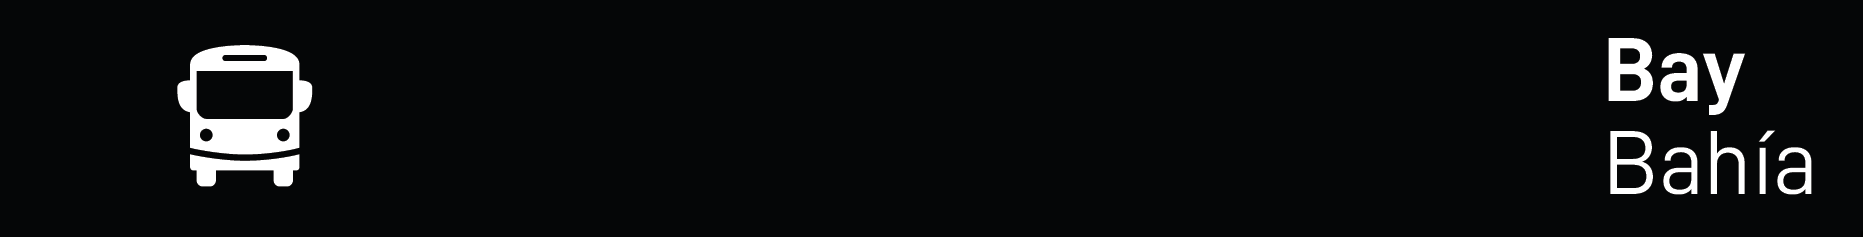
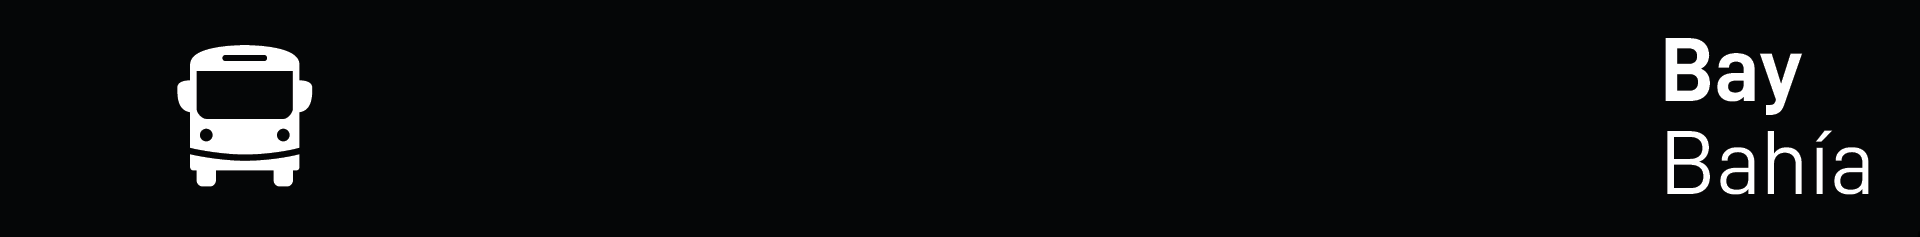
fine tune styling and update images

Changed region(s): [[0.0934, 0.1772, 0.1868, 0.7975], [0.8406, 0.5612, 0.9962, 0.827], [0.8406, 0.1772, 0.934, 0.4726]]

diff --git a/src/css/bus-bay-assignments.css b/src/css/bus-bay-assignments.css
@@ -5,7 +5,7 @@
     align-items: stretch;
     height: 100vh;
     width: 1920px;
-    background-color: black;
+    background-color: #2B2B2B;
     overflow: hidden;
     color: #fff;
 }
@@ -17,7 +17,7 @@
     align-items: middle;
     width: 100%;
     height: 90px;
-    background-color: #000;
+    background-color: #2B2B2B;
     color: white;
     font-size: 1.5em;
     margin: 0;
@@ -30,7 +30,9 @@
     align-items: center;
     padding-right: 40px;
     height: 90px;
-    font-size: 52px;
+    font-size: 60px;
+    font-weight: normal;
+    transform: translateY(-3px);
 }
 
 #bba-static-content {
@@ -67,7 +69,7 @@
 
 .service-agency-info {
     width: 484px;
-    background-color: #444;
+    /* background-color: #444; */
     display: flex;
     flex-direction: row;
     justify-content: center;
@@ -75,12 +77,13 @@
 }
 
 .route-number {
-    height: 176px;
+    height: 109px;
     width: 242px;
-    font-size: 72px;
+    font-size: 109px;
     display: flex;
     justify-content: center;
     align-items: center;
+    transform: translateY(-5px);
 }
 
 .agency-logo {
@@ -113,6 +116,8 @@
     font-size: 72px;
     margin-left: 64px;
     width: 1200px;
+    line-height: 1;
+    transform: translateY(-3px);
 }
 
 .bay-number {
@@ -122,6 +127,13 @@
     justify-content: center;
     align-items: center;
     margin-right: 20px;
-    font-size: 70px;
     background-color: #000;
+}
+
+.bay-number-number {
+    display: flex;
+    justify-content: center;
+    align-items: center;
+    font-size: 95px;
+    transform: translateY(-4px);
 }
